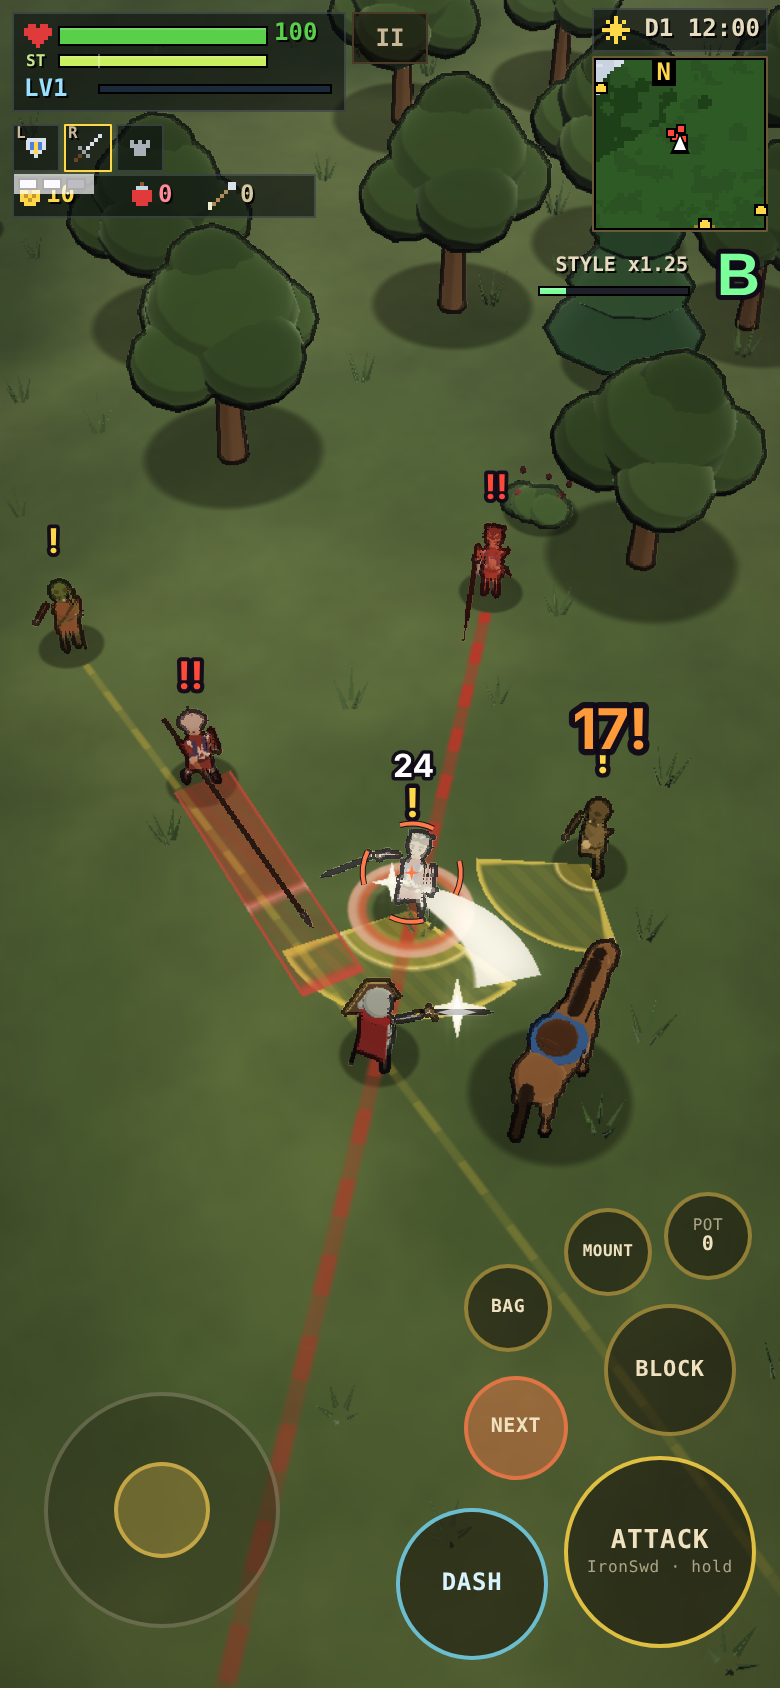
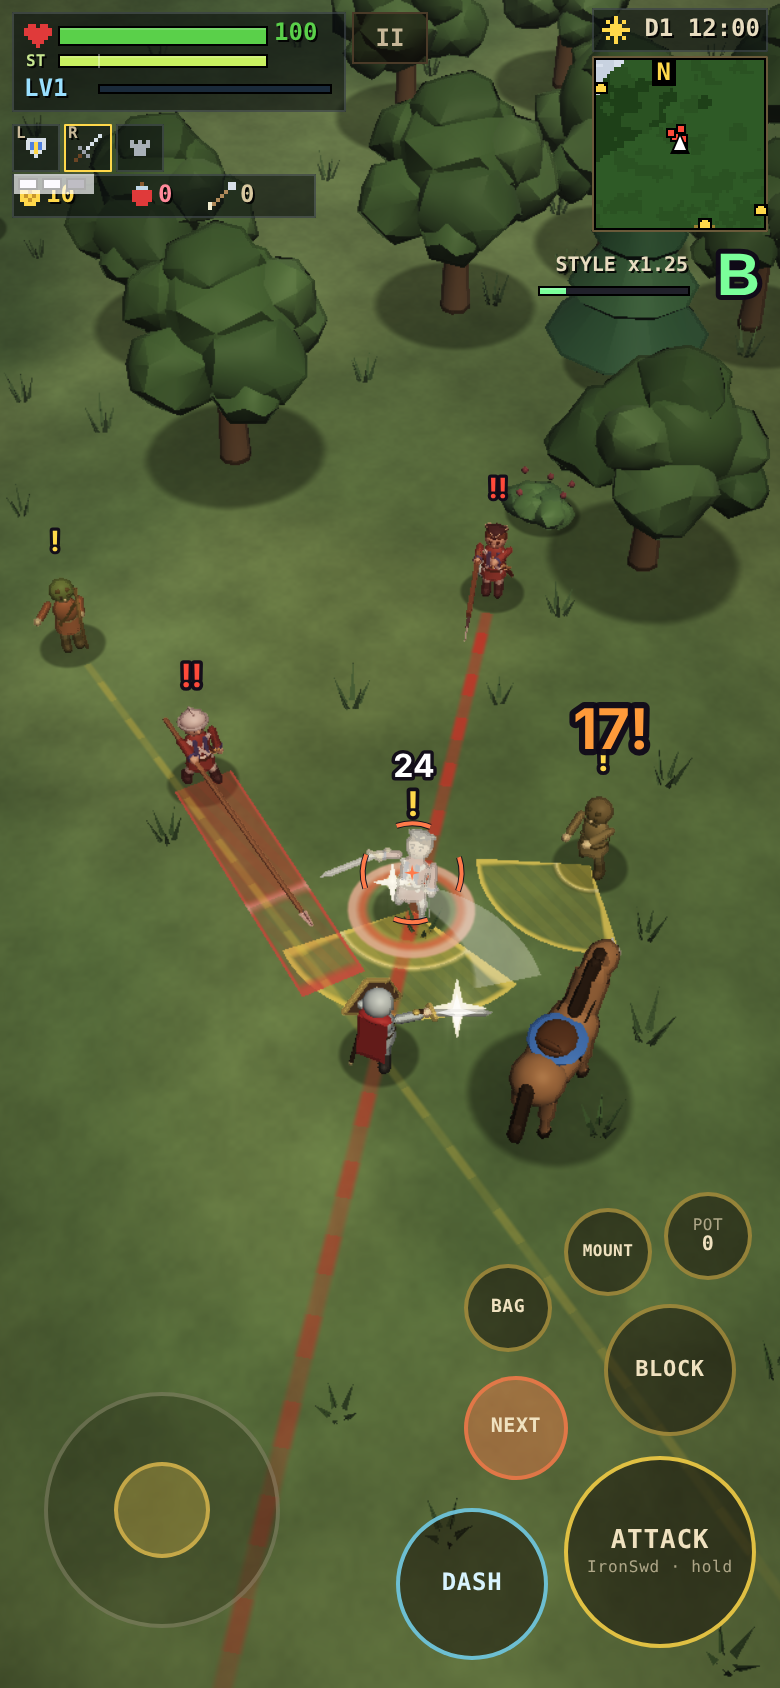
Less cartoony rendering
Replace the cel-shaded bands with soft wrapped diffuse lighting, a
faint specular, smooth point-light falloff and a subtler rim. Make the
ink outlines thin and faint, give the ground more texture variation,
build tree and bush foliage from irregular faceted clusters instead of
smooth blobs, and make slash trails translucent.

Claude-Session: https://claude.ai/code/session_01Jh4KKLNmrFgNeY2rHS8eWP

diff --git a/index.html b/index.html
@@ -583,25 +583,25 @@ uniform vec3 uCamPos, uSunDir, uSunCol, uSkyAmb, uGndAmb, uFogCol, uShadowTint;
 uniform float uFogD, uFogH, uFogMul, uTime, uRim;
 uniform vec4 uLP[8], uLC[8];
 uniform int uNL;
-// cel-shaded lighting: hard terminator, a small highlight band, cool-tinted shadows, banded point lights, soft rim
+// soft, naturalistic lighting: wrapped diffuse with a gradual terminator, hemisphere ambient,
+// faint specular, smooth point-light falloff and a subtle rim (name kept from the old cel shader)
 vec3 toon(vec3 p, vec3 n, vec3 base, vec3 V) {
   float ndl = dot(n, uSunDir);
-  float lit = smoothstep(-0.02, 0.06, ndl);
-  float mid = smoothstep(0.42, 0.5, ndl);
+  float lit = clamp(ndl * 0.8 + 0.2, 0.0, 1.0);
+  lit = lit * lit * (3.0 - 2.0 * lit) * 0.4 + lit * 0.6;
   vec3 amb = mix(uGndAmb, uSkyAmb, n.y * 0.5 + 0.5);
-  vec3 sh = base * (amb * 0.95 + 0.1) * uShadowTint;
-  vec3 lt = base * (amb * 0.32 + uSunCol * (0.74 + 0.16 * mid));
-  vec3 c = mix(sh, lt, lit);
+  vec3 c = base * (amb * 0.85 + 0.05) * mix(mix(uShadowTint, vec3(1.0), 0.45), vec3(1.0), lit) + base * uSunCol * 0.82 * lit;
+  vec3 H = normalize(uSunDir + V);
+  c += uSunCol * pow(max(dot(n, H), 0.0), 28.0) * 0.07 * lit;
   for (int i = 0; i < 8; i++) {
     if (i >= uNL) break;
     vec3 L = uLP[i].xyz - p; float dl = length(L) + 1e-4;
-    float a = clamp(1.0 - dl / uLP[i].w, 0.0, 1.0);
-    float band = smoothstep(0.0, 0.05, a) * 0.22 + smoothstep(0.32, 0.38, a) * 0.33 + smoothstep(0.62, 0.68, a) * 0.45;
-    float dd = smoothstep(-0.1, 0.1, dot(n, L / dl));
-    c += base * uLC[i].rgb * band * (0.45 + 0.55 * dd);
+    float a = clamp(1.0 - dl / uLP[i].w, 0.0, 1.0); a = a * a * (1.4 - 0.4 * a);
+    float dd = clamp(dot(n, L / dl) * 0.6 + 0.4, 0.0, 1.0);
+    c += base * uLC[i].rgb * a * dd;
   }
-  float rim = pow(1.0 - clamp(dot(n, V), 0.0, 1.0), 3.0);
-  c += (uSkyAmb + uSunCol * 0.4) * rim * uRim * (0.35 + 0.65 * lit);
+  float rim = pow(1.0 - clamp(dot(n, V), 0.0, 1.0), 4.0);
+  c += (uSkyAmb + uSunCol * 0.3) * rim * uRim * 0.5 * (0.35 + 0.65 * lit);
   return c;
 }
 float fogF(vec3 p) {
@@ -698,8 +698,9 @@ void main() {
   vec3 base = vCol.rgb;
   if (uGhost > 0.0) { o = vec4(uTint, uGhost * (0.4 + 0.6 * pow(1.0 - max(dot(n, V), 0.0), 1.5))); o1 = vec4(0.0); return; }
   if (uMat == 1) { // terrain: soft painted variation
-    float k = vn(vPos.xz * 0.35) * 0.55 + vn(vPos.xz * 1.3) * 0.3 + vn(vPos.xz * 4.0) * 0.15;
-    base *= 0.9 + 0.2 * k;
+    float k = vn(vPos.xz * 0.35) * 0.45 + vn(vPos.xz * 1.3) * 0.3 + vn(vPos.xz * 4.0) * 0.15 + vn(vPos.xz * 11.0) * 0.1;
+    base *= 0.8 + 0.38 * k;
+    base = mix(base, base * vec3(0.92, 0.88, 0.8), smoothstep(0.55, 0.8, vn(vPos.xz * 0.12 + 7.0)) * 0.5);
   } else if (uMat == 2) { // toon water
     float w = vn(vPos.xz * 0.9 + vec2(uTime * 0.25, uTime * 0.15)) * 0.6 + vn(vPos.xz * 2.3 - vec2(uTime * 0.4, -uTime * 0.2)) * 0.4;
     vec3 c = toon(vPos, vec3(0.0, 1.0, 0.0), base, V);
@@ -795,7 +796,7 @@ void main() {
     if (dn - d0 > max(0.28, d0 * 0.045)) edge = max(edge, w0 * k);
   }
   vec3 col = c.rgb;
-  vec3 line = col * 0.22 + vec3(0.015, 0.012, 0.03);
+  vec3 line = col * 0.55;
   col = mix(col, line, clamp(edge, 0.0, 1.0) * uLineK);
   col += texture(tB, vUV).rgb * uBloomK;
   float lum = dot(col, vec3(0.299, 0.587, 0.114));
@@ -965,7 +966,7 @@ function updateEnv(dt) {
   ENV.sky = mix3(skyDay, skyN, d);
   ENV.gnd = mix3([0.26, 0.24, 0.22], blood ? [0.08, 0.03, 0.03] : [0.05, 0.06, 0.12], d);
   ENV.shTint = mix3([0.74, 0.78, 1.0], [0.7, 0.75, 1.0], d);
-  ENV.rim = 0.4 - d * 0.18;
+  ENV.rim = 0.25 - d * 0.1;
   const fogDay = envBiome, fogN = blood ? [0.14, 0.04, 0.06] : mix3([0.05, 0.07, 0.17], envBiome, 0.08), fogDusk = [0.82, 0.58, 0.5];
   let fc = mix3(fogDay, fogN, d); fc = mix3(fc, fogDusk, dusk * 0.5);
   ENV.fog = fc;
@@ -1517,14 +1518,14 @@ const STATIC_BUILD = {
   pine: () => mkPineM(false), snowpine: () => mkPineM(true),
   oak: () => { const mb = new MB(5); mb.tube([0, 0, 0], [0, 2.2, 0], 0.3, 0.2, 8, '#8a5a32', false); for (const a of [0.4, 2.3, 4.2]) mb.tube([0, 1.6, 0], [Math.cos(a) * 0.7, 2.4, Math.sin(a) * 0.7], 0.1, 0.07, 6, '#8a5a32');
     mb.wind = 0.4; const g = ['#4e7a3a', '#5a8644', '#466f36'];
-    [[0, 3.1, 0, 1.35], [0.95, 2.6, 0.3, 0.95], [-0.85, 2.7, -0.4, 1.0], [0.25, 2.5, -1.0, 0.9], [-0.3, 2.55, 0.95, 0.9], [0.2, 3.75, 0.1, 0.85]].forEach((c, i) => mb.sph(c[0], c[1], c[2], c[3], c[3] * 0.86, c[3], g[i % 3]));
+    [[0, 3.1, 0, 1.3], [0.95, 2.6, 0.3, 0.95], [-0.85, 2.7, -0.4, 1.0], [0.25, 2.5, -1.0, 0.9], [-0.3, 2.55, 0.95, 0.9], [0.2, 3.75, 0.1, 0.85], [0.8, 3.35, -0.6, 0.7], [-0.75, 3.4, 0.55, 0.7], [1.1, 2.2, 0.9, 0.6], [-1.1, 2.3, -0.9, 0.6]].forEach((c, i) => mb.ico(c[0], c[1], c[2], c[3], c[3] * 0.82, c[3], g[i % 3], 0.16, 1, 60 + i));
     return mb; },
   deadtree: () => { const mb = new MB(6); const c = '#7a6a5a'; mb.tube([0, 0, 0], [0, 3.3, 0], 0.22, 0.07, 6, c); const R = mulberry(9);
     const br = (p, a, el, L, w, d) => { const q = [p[0] + Math.cos(a) * Math.cos(el) * L, p[1] + Math.sin(el) * L, p[2] + Math.sin(a) * Math.cos(el) * L]; mb.tube(p, q, w, w * 0.6, 5, c); if (d) { br(q, a + 0.6, el + 0.1, L * 0.6, w * 0.7, d - 1); br(q, a - 0.6, el - 0.1, L * 0.6, w * 0.7, d - 1); } };
     for (let k = 0; k < 4; k++) br([0, 1.6 + k * 0.45, 0], k * 1.9 + R(), 0.5, 1.0 - k * 0.15, 0.09, 1); return mb; },
   palm: () => { const mb = new MB(8); let x = 0; for (let i = 0; i < 9; i++) { const nx = Math.sin(i * 0.35) * 0.35; mb.tube([x, i * 0.5, 0], [nx, (i + 1) * 0.5, 0], 0.15, 0.14, 7, i % 2 ? '#b8905a' : '#a07a48'); x = nx; }
     mb.wind = 0.8; for (let k = 0; k < 7; k++) { const a = k / 7 * TAU; let p = [x, 4.5, 0]; for (let s = 1; s <= 4; s++) { const q = [x + Math.cos(a) * s * 0.55, 4.6 + Math.sin(s * 0.7) * 0.5 - s * s * 0.1, Math.sin(a) * s * 0.55]; mb.tube(p, q, 0.16 - s * 0.025, 0.13 - s * 0.025, 4, k % 2 ? '#4e7e3e' : '#44703a'); p = q; } } mb.sph(x, 4.45, 0, 0.18, 0.15, 0.18, '#7a5a2a', 0); return mb; },
-  bush: () => { const mb = new MB(11); mb.wind = 0.3; const R = mulberry(4); for (let k = 0; k < 6; k++) mb.sph((R() - 0.5) * 0.8, 0.35 + R() * 0.3, (R() - 0.5) * 0.8, 0.36 + R() * 0.1, 0.32, 0.36 + R() * 0.1, k % 2 ? '#45703a' : '#52803e');
+  bush: () => { const mb = new MB(11); mb.wind = 0.3; const R = mulberry(4); for (let k = 0; k < 8; k++) mb.ico((R() - 0.5) * 0.85, 0.32 + R() * 0.3, (R() - 0.5) * 0.85, 0.3 + R() * 0.12, 0.28, 0.3 + R() * 0.12, k % 2 ? '#45703a' : '#52803e', 0.16, 1, 80 + k);
     for (let k = 0; k < 6; k++) { const a = k * 1.1; mb.sph(Math.cos(a) * 0.5, 0.58 + (k % 3) * 0.12, Math.sin(a) * 0.5, 0.07, 0.07, 0.07, '#a8404a', 0); } return mb; },
   rock: () => mkRockM(0), rocksnow: () => mkRockM(1), rocksand: () => mkRockM(2), pebble: () => mkRockM(0, true), pebblesnow: () => mkRockM(1, true), pebblesand: () => mkRockM(2, true),
   tuft: () => { const mb = new MB(71); mb.wind = 1; for (let k = 0; k < 5; k++) { const a = k / 5 * TAU + 0.3, x = Math.cos(a) * 0.08, z = Math.sin(a) * 0.08; mb.tri([x - 0.04, 0, z], [x + 0.04, 0, z], [x * 3, 0.42 + (k % 2) * 0.12, z * 3], '#5a8644'); mb.tri([x, 0, z - 0.04], [x, 0, z + 0.04], [x * 3, 0.42 + (k % 2) * 0.12, z * 3], '#4e7a3a'); } return mb; },
@@ -2139,7 +2140,7 @@ const smoothstep = (a, b, x) => { const t = clamp((x - a) / (b - a), 0, 1); retu
 function fxSlash(B, f) {
   const p = f.t / f.dur, head = easeOut(clamp(p * 1.55, 0, 1)), tail = clamp(p * 1.55 - 0.42, 0, 1) * 0.98;
   if (head - tail < 0.02) return;
-  const alpha = (f.col[3] || 1) * (1 - smoothstep(0.62, 1.0, p)), col = [f.col[0], f.col[1], f.col[2], alpha];
+  const alpha = (f.col[3] || 1) * 0.42 * (1 - smoothstep(0.5, 1.0, p)), col = [f.col[0] * 0.92, f.col[1] * 0.94, f.col[2], alpha];
   const gh = groundH(f.x, f.y), N = 18, th = f.heavy ? 0.62 : 0.42;
   const start = f.dir - f.side * f.arc * 1.05, end = f.dir + f.side * f.arc * 1.05;
   let prev = null;
@@ -2716,7 +2717,7 @@ function post() {
   gl.activeTexture(gl.TEXTURE2); gl.bindTexture(gl.TEXTURE_2D, RT.d); gl.uniform1i(U.tD, 2);
   gl.activeTexture(gl.TEXTURE3); gl.bindTexture(gl.TEXTURE_2D, RT.b); gl.uniform1i(U.tB, 3);
   gl.uniform2f(U.uPx, 1 / SW, 1 / SH); gl.uniform1f(U.uNear, 0.5); gl.uniform1f(U.uFar, 300);
-  gl.uniform1f(U.uLineW, Math.max(2, Math.round(SH / 420))); gl.uniform1f(U.uLineK, 0.92);
+  gl.uniform1f(U.uLineW, Math.max(1, Math.round(SH / 900))); gl.uniform1f(U.uLineK, 0.4);
   const slow = S.slowT > 0 ? clamp(S.slowT / 0.15, 0, 1) : 0;
   gl.uniform1f(U.uBloomK, ENV.bloom); gl.uniform1f(U.uVig, 0.32 + slow * 0.5);
   gl.uniform1f(U.uSat, ENV.sat * (1 - slow * 0.45)); gl.uniform1f(U.uBright, ENV.bright);

diff --git a/src/3_gl.js b/src/3_gl.js
@@ -65,25 +65,25 @@ uniform vec3 uCamPos, uSunDir, uSunCol, uSkyAmb, uGndAmb, uFogCol, uShadowTint;
 uniform float uFogD, uFogH, uFogMul, uTime, uRim;
 uniform vec4 uLP[8], uLC[8];
 uniform int uNL;
-// cel-shaded lighting: hard terminator, a small highlight band, cool-tinted shadows, banded point lights, soft rim
+// soft, naturalistic lighting: wrapped diffuse with a gradual terminator, hemisphere ambient,
+// faint specular, smooth point-light falloff and a subtle rim (name kept from the old cel shader)
 vec3 toon(vec3 p, vec3 n, vec3 base, vec3 V) {
   float ndl = dot(n, uSunDir);
-  float lit = smoothstep(-0.02, 0.06, ndl);
-  float mid = smoothstep(0.42, 0.5, ndl);
+  float lit = clamp(ndl * 0.8 + 0.2, 0.0, 1.0);
+  lit = lit * lit * (3.0 - 2.0 * lit) * 0.4 + lit * 0.6;
   vec3 amb = mix(uGndAmb, uSkyAmb, n.y * 0.5 + 0.5);
-  vec3 sh = base * (amb * 0.95 + 0.1) * uShadowTint;
-  vec3 lt = base * (amb * 0.32 + uSunCol * (0.74 + 0.16 * mid));
-  vec3 c = mix(sh, lt, lit);
+  vec3 c = base * (amb * 0.85 + 0.05) * mix(mix(uShadowTint, vec3(1.0), 0.45), vec3(1.0), lit) + base * uSunCol * 0.82 * lit;
+  vec3 H = normalize(uSunDir + V);
+  c += uSunCol * pow(max(dot(n, H), 0.0), 28.0) * 0.07 * lit;
   for (int i = 0; i < 8; i++) {
     if (i >= uNL) break;
     vec3 L = uLP[i].xyz - p; float dl = length(L) + 1e-4;
-    float a = clamp(1.0 - dl / uLP[i].w, 0.0, 1.0);
-    float band = smoothstep(0.0, 0.05, a) * 0.22 + smoothstep(0.32, 0.38, a) * 0.33 + smoothstep(0.62, 0.68, a) * 0.45;
-    float dd = smoothstep(-0.1, 0.1, dot(n, L / dl));
-    c += base * uLC[i].rgb * band * (0.45 + 0.55 * dd);
+    float a = clamp(1.0 - dl / uLP[i].w, 0.0, 1.0); a = a * a * (1.4 - 0.4 * a);
+    float dd = clamp(dot(n, L / dl) * 0.6 + 0.4, 0.0, 1.0);
+    c += base * uLC[i].rgb * a * dd;
   }
-  float rim = pow(1.0 - clamp(dot(n, V), 0.0, 1.0), 3.0);
-  c += (uSkyAmb + uSunCol * 0.4) * rim * uRim * (0.35 + 0.65 * lit);
+  float rim = pow(1.0 - clamp(dot(n, V), 0.0, 1.0), 4.0);
+  c += (uSkyAmb + uSunCol * 0.3) * rim * uRim * 0.5 * (0.35 + 0.65 * lit);
   return c;
 }
 float fogF(vec3 p) {
@@ -180,8 +180,9 @@ void main() {
   vec3 base = vCol.rgb;
   if (uGhost > 0.0) { o = vec4(uTint, uGhost * (0.4 + 0.6 * pow(1.0 - max(dot(n, V), 0.0), 1.5))); o1 = vec4(0.0); return; }
   if (uMat == 1) { // terrain: soft painted variation
-    float k = vn(vPos.xz * 0.35) * 0.55 + vn(vPos.xz * 1.3) * 0.3 + vn(vPos.xz * 4.0) * 0.15;
-    base *= 0.9 + 0.2 * k;
+    float k = vn(vPos.xz * 0.35) * 0.45 + vn(vPos.xz * 1.3) * 0.3 + vn(vPos.xz * 4.0) * 0.15 + vn(vPos.xz * 11.0) * 0.1;
+    base *= 0.8 + 0.38 * k;
+    base = mix(base, base * vec3(0.92, 0.88, 0.8), smoothstep(0.55, 0.8, vn(vPos.xz * 0.12 + 7.0)) * 0.5);
   } else if (uMat == 2) { // toon water
     float w = vn(vPos.xz * 0.9 + vec2(uTime * 0.25, uTime * 0.15)) * 0.6 + vn(vPos.xz * 2.3 - vec2(uTime * 0.4, -uTime * 0.2)) * 0.4;
     vec3 c = toon(vPos, vec3(0.0, 1.0, 0.0), base, V);
@@ -277,7 +278,7 @@ void main() {
     if (dn - d0 > max(0.28, d0 * 0.045)) edge = max(edge, w0 * k);
   }
   vec3 col = c.rgb;
-  vec3 line = col * 0.22 + vec3(0.015, 0.012, 0.03);
+  vec3 line = col * 0.55;
   col = mix(col, line, clamp(edge, 0.0, 1.0) * uLineK);
   col += texture(tB, vUV).rgb * uBloomK;
   float lum = dot(col, vec3(0.299, 0.587, 0.114));
@@ -447,7 +448,7 @@ function updateEnv(dt) {
   ENV.sky = mix3(skyDay, skyN, d);
   ENV.gnd = mix3([0.26, 0.24, 0.22], blood ? [0.08, 0.03, 0.03] : [0.05, 0.06, 0.12], d);
   ENV.shTint = mix3([0.74, 0.78, 1.0], [0.7, 0.75, 1.0], d);
-  ENV.rim = 0.4 - d * 0.18;
+  ENV.rim = 0.25 - d * 0.1;
   const fogDay = envBiome, fogN = blood ? [0.14, 0.04, 0.06] : mix3([0.05, 0.07, 0.17], envBiome, 0.08), fogDusk = [0.82, 0.58, 0.5];
   let fc = mix3(fogDay, fogN, d); fc = mix3(fc, fogDusk, dusk * 0.5);
   ENV.fog = fc;

diff --git a/src/3_mesh.js b/src/3_mesh.js
@@ -487,14 +487,14 @@ const STATIC_BUILD = {
   pine: () => mkPineM(false), snowpine: () => mkPineM(true),
   oak: () => { const mb = new MB(5); mb.tube([0, 0, 0], [0, 2.2, 0], 0.3, 0.2, 8, '#8a5a32', false); for (const a of [0.4, 2.3, 4.2]) mb.tube([0, 1.6, 0], [Math.cos(a) * 0.7, 2.4, Math.sin(a) * 0.7], 0.1, 0.07, 6, '#8a5a32');
     mb.wind = 0.4; const g = ['#4e7a3a', '#5a8644', '#466f36'];
-    [[0, 3.1, 0, 1.35], [0.95, 2.6, 0.3, 0.95], [-0.85, 2.7, -0.4, 1.0], [0.25, 2.5, -1.0, 0.9], [-0.3, 2.55, 0.95, 0.9], [0.2, 3.75, 0.1, 0.85]].forEach((c, i) => mb.sph(c[0], c[1], c[2], c[3], c[3] * 0.86, c[3], g[i % 3]));
+    [[0, 3.1, 0, 1.3], [0.95, 2.6, 0.3, 0.95], [-0.85, 2.7, -0.4, 1.0], [0.25, 2.5, -1.0, 0.9], [-0.3, 2.55, 0.95, 0.9], [0.2, 3.75, 0.1, 0.85], [0.8, 3.35, -0.6, 0.7], [-0.75, 3.4, 0.55, 0.7], [1.1, 2.2, 0.9, 0.6], [-1.1, 2.3, -0.9, 0.6]].forEach((c, i) => mb.ico(c[0], c[1], c[2], c[3], c[3] * 0.82, c[3], g[i % 3], 0.16, 1, 60 + i));
     return mb; },
   deadtree: () => { const mb = new MB(6); const c = '#7a6a5a'; mb.tube([0, 0, 0], [0, 3.3, 0], 0.22, 0.07, 6, c); const R = mulberry(9);
     const br = (p, a, el, L, w, d) => { const q = [p[0] + Math.cos(a) * Math.cos(el) * L, p[1] + Math.sin(el) * L, p[2] + Math.sin(a) * Math.cos(el) * L]; mb.tube(p, q, w, w * 0.6, 5, c); if (d) { br(q, a + 0.6, el + 0.1, L * 0.6, w * 0.7, d - 1); br(q, a - 0.6, el - 0.1, L * 0.6, w * 0.7, d - 1); } };
     for (let k = 0; k < 4; k++) br([0, 1.6 + k * 0.45, 0], k * 1.9 + R(), 0.5, 1.0 - k * 0.15, 0.09, 1); return mb; },
   palm: () => { const mb = new MB(8); let x = 0; for (let i = 0; i < 9; i++) { const nx = Math.sin(i * 0.35) * 0.35; mb.tube([x, i * 0.5, 0], [nx, (i + 1) * 0.5, 0], 0.15, 0.14, 7, i % 2 ? '#b8905a' : '#a07a48'); x = nx; }
     mb.wind = 0.8; for (let k = 0; k < 7; k++) { const a = k / 7 * TAU; let p = [x, 4.5, 0]; for (let s = 1; s <= 4; s++) { const q = [x + Math.cos(a) * s * 0.55, 4.6 + Math.sin(s * 0.7) * 0.5 - s * s * 0.1, Math.sin(a) * s * 0.55]; mb.tube(p, q, 0.16 - s * 0.025, 0.13 - s * 0.025, 4, k % 2 ? '#4e7e3e' : '#44703a'); p = q; } } mb.sph(x, 4.45, 0, 0.18, 0.15, 0.18, '#7a5a2a', 0); return mb; },
-  bush: () => { const mb = new MB(11); mb.wind = 0.3; const R = mulberry(4); for (let k = 0; k < 6; k++) mb.sph((R() - 0.5) * 0.8, 0.35 + R() * 0.3, (R() - 0.5) * 0.8, 0.36 + R() * 0.1, 0.32, 0.36 + R() * 0.1, k % 2 ? '#45703a' : '#52803e');
+  bush: () => { const mb = new MB(11); mb.wind = 0.3; const R = mulberry(4); for (let k = 0; k < 8; k++) mb.ico((R() - 0.5) * 0.85, 0.32 + R() * 0.3, (R() - 0.5) * 0.85, 0.3 + R() * 0.12, 0.28, 0.3 + R() * 0.12, k % 2 ? '#45703a' : '#52803e', 0.16, 1, 80 + k);
     for (let k = 0; k < 6; k++) { const a = k * 1.1; mb.sph(Math.cos(a) * 0.5, 0.58 + (k % 3) * 0.12, Math.sin(a) * 0.5, 0.07, 0.07, 0.07, '#a8404a', 0); } return mb; },
   rock: () => mkRockM(0), rocksnow: () => mkRockM(1), rocksand: () => mkRockM(2), pebble: () => mkRockM(0, true), pebblesnow: () => mkRockM(1, true), pebblesand: () => mkRockM(2, true),
   tuft: () => { const mb = new MB(71); mb.wind = 1; for (let k = 0; k < 5; k++) { const a = k / 5 * TAU + 0.3, x = Math.cos(a) * 0.08, z = Math.sin(a) * 0.08; mb.tri([x - 0.04, 0, z], [x + 0.04, 0, z], [x * 3, 0.42 + (k % 2) * 0.12, z * 3], '#5a8644'); mb.tri([x, 0, z - 0.04], [x, 0, z + 0.04], [x * 3, 0.42 + (k % 2) * 0.12, z * 3], '#4e7a3a'); } return mb; },

diff --git a/src/3_scene.js b/src/3_scene.js
@@ -514,7 +514,7 @@ const smoothstep = (a, b, x) => { const t = clamp((x - a) / (b - a), 0, 1); retu
 function fxSlash(B, f) {
   const p = f.t / f.dur, head = easeOut(clamp(p * 1.55, 0, 1)), tail = clamp(p * 1.55 - 0.42, 0, 1) * 0.98;
   if (head - tail < 0.02) return;
-  const alpha = (f.col[3] || 1) * (1 - smoothstep(0.62, 1.0, p)), col = [f.col[0], f.col[1], f.col[2], alpha];
+  const alpha = (f.col[3] || 1) * 0.42 * (1 - smoothstep(0.5, 1.0, p)), col = [f.col[0] * 0.92, f.col[1] * 0.94, f.col[2], alpha];
   const gh = groundH(f.x, f.y), N = 18, th = f.heavy ? 0.62 : 0.42;
   const start = f.dir - f.side * f.arc * 1.05, end = f.dir + f.side * f.arc * 1.05;
   let prev = null;
@@ -1091,7 +1091,7 @@ function post() {
   gl.activeTexture(gl.TEXTURE2); gl.bindTexture(gl.TEXTURE_2D, RT.d); gl.uniform1i(U.tD, 2);
   gl.activeTexture(gl.TEXTURE3); gl.bindTexture(gl.TEXTURE_2D, RT.b); gl.uniform1i(U.tB, 3);
   gl.uniform2f(U.uPx, 1 / SW, 1 / SH); gl.uniform1f(U.uNear, 0.5); gl.uniform1f(U.uFar, 300);
-  gl.uniform1f(U.uLineW, Math.max(2, Math.round(SH / 420))); gl.uniform1f(U.uLineK, 0.92);
+  gl.uniform1f(U.uLineW, Math.max(1, Math.round(SH / 900))); gl.uniform1f(U.uLineK, 0.4);
   const slow = S.slowT > 0 ? clamp(S.slowT / 0.15, 0, 1) : 0;
   gl.uniform1f(U.uBloomK, ENV.bloom); gl.uniform1f(U.uVig, 0.32 + slow * 0.5);
   gl.uniform1f(U.uSat, ENV.sat * (1 - slow * 0.45)); gl.uniform1f(U.uBright, ENV.bright);
